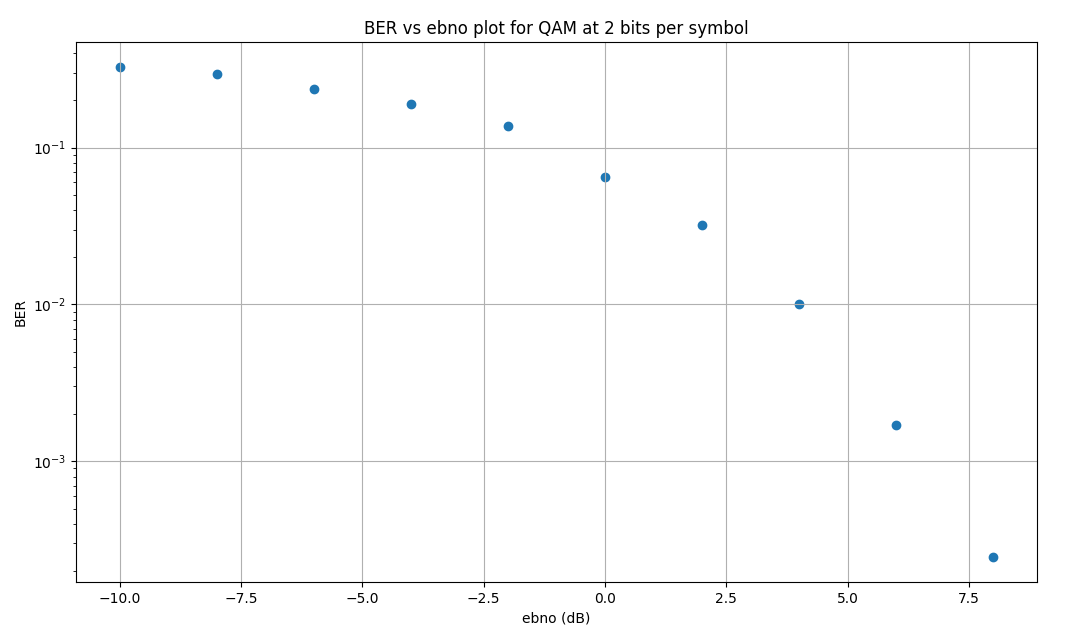
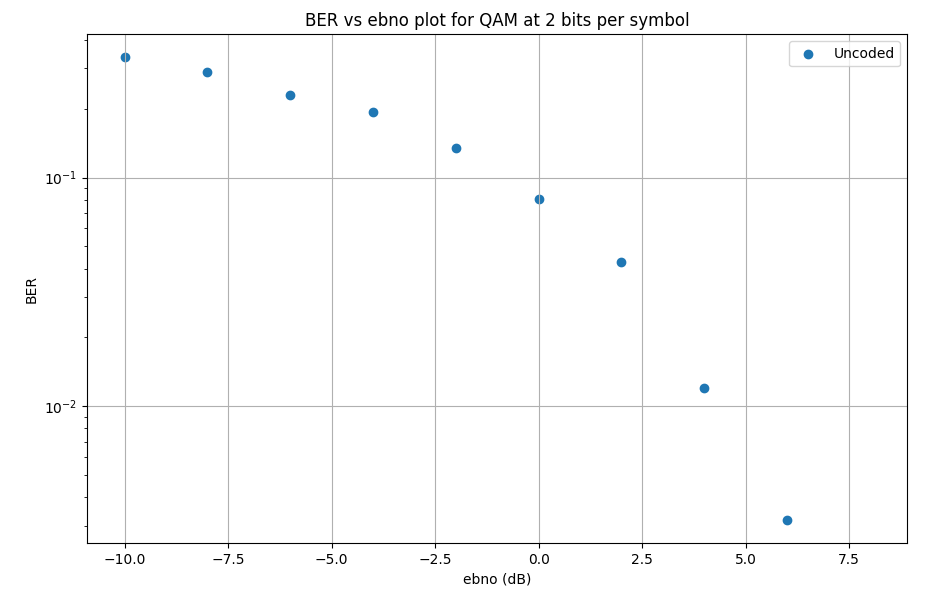
adding specified uncoded

diff --git a/2025-10-30_sionna-deepdive/02_basic-phy-layer-chain/main.py b/2025-10-30_sionna-deepdive/02_basic-phy-layer-chain/main.py
@@ -110,8 +110,9 @@ if __name__ == "__main__":
     plt.title(f'BER vs ebno plot for QAM at {NUM_BITS_PER_SYMBOL} bits per symbol')
     plt.xlabel('ebno (dB)')
     plt.ylabel('BER')
-    plt.scatter(x_vals_ebno, y_vals_ber)
+    plt.scatter(x_vals_ebno, y_vals_ber, label="Uncoded")
     plt.yscale('log')
+    plt.legend(loc="upper right")
     plt.show()
     plt.clf()
     plt.close()

diff --git a/2025-10-30_sionna-deepdive/02_basic-phy-layer-chain/README.md b/2025-10-30_sionna-deepdive/02_basic-phy-layer-chain/README.md
@@ -47,10 +47,11 @@ You can see that at `ebno` = -3 dB (signal power is roughly half the noise power
 
 ## BER vs `ebno` plot
 
-The following figure is the BER vs EbN0 plot for 4-QAM without any forward error correction (FEC). Note the curve is not quite smooth, which can be resolved using a larger `BATCH_SIZE`.
+The following figure is the BER vs EbN0 plot for 4-QAM without any forward error correction (FEC) i.e. encoding. Note the curve is not quite smooth, which can be resolved using a larger `BATCH_SIZE`.
 
 ![image](./images/ber_vs_ebno.png)
 
 Note a few things:
 - At EbN0 = -3 dB, the BER is between 0.1 and 0.2 i.e 10% to 20% bit errors. This might be counter intuitive, as a -3 dB ratio means the energy power per bit is roughly half that of the noise.
 - In the limit of small EbN0 ratios, the BER seems to converge towards a value of ~0.33 i.e 33% buts are erroneous.
+- There is no encoding for FEC in the current comms chain, hence this set of results in labelled 'uncoded'. Encoding is adding in the next chapter when using Sionna Blocks.
